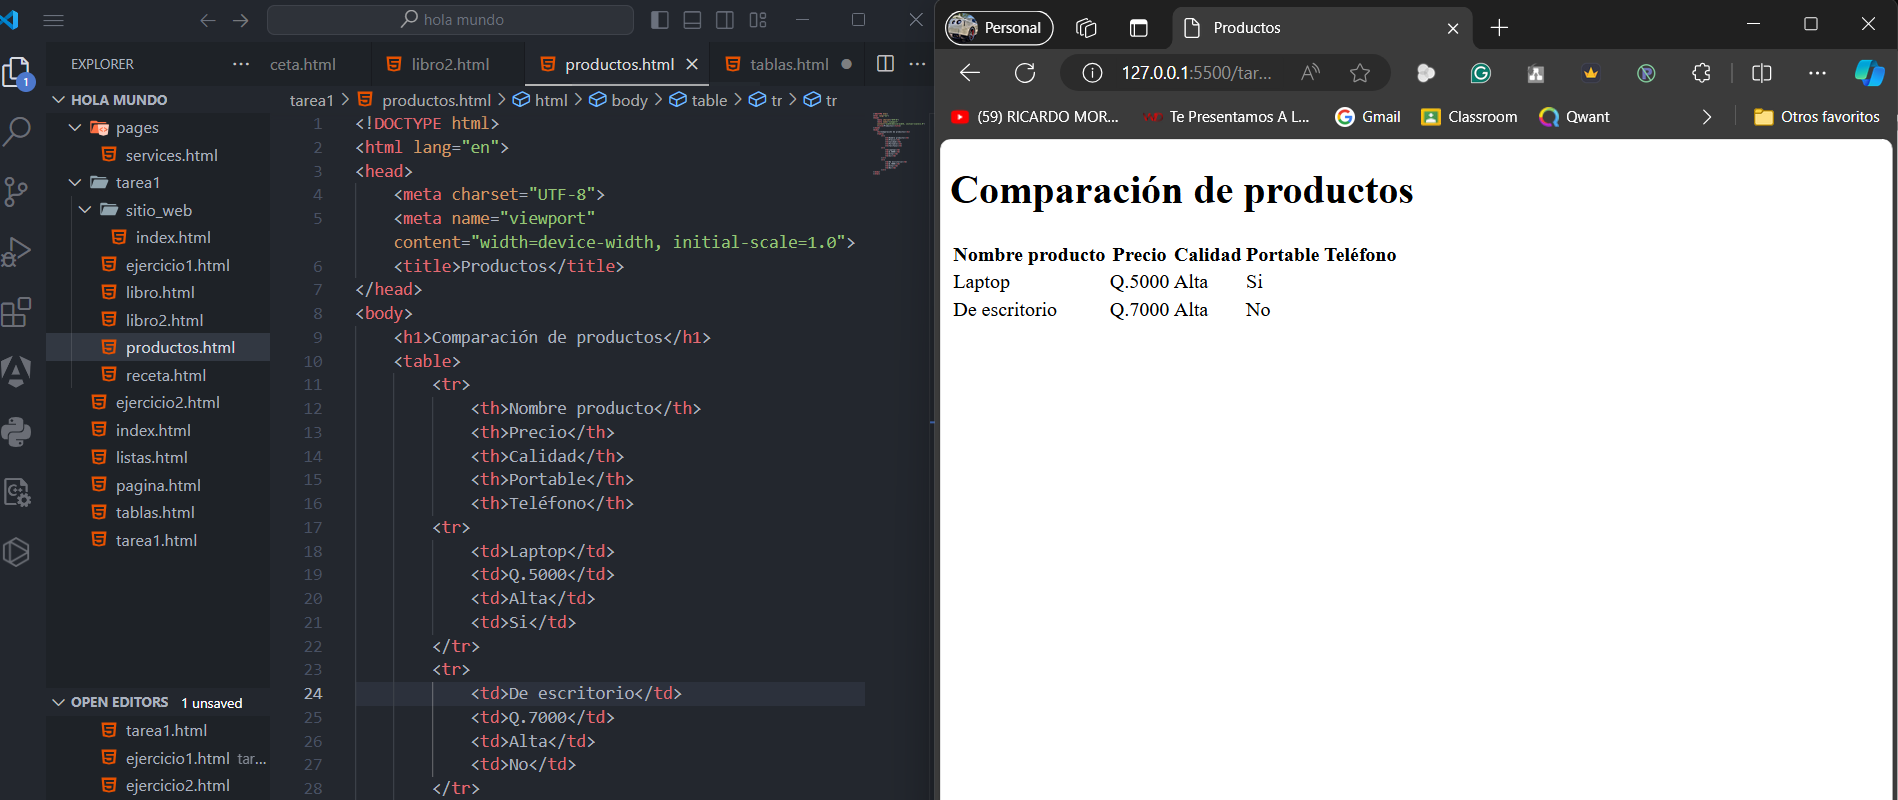
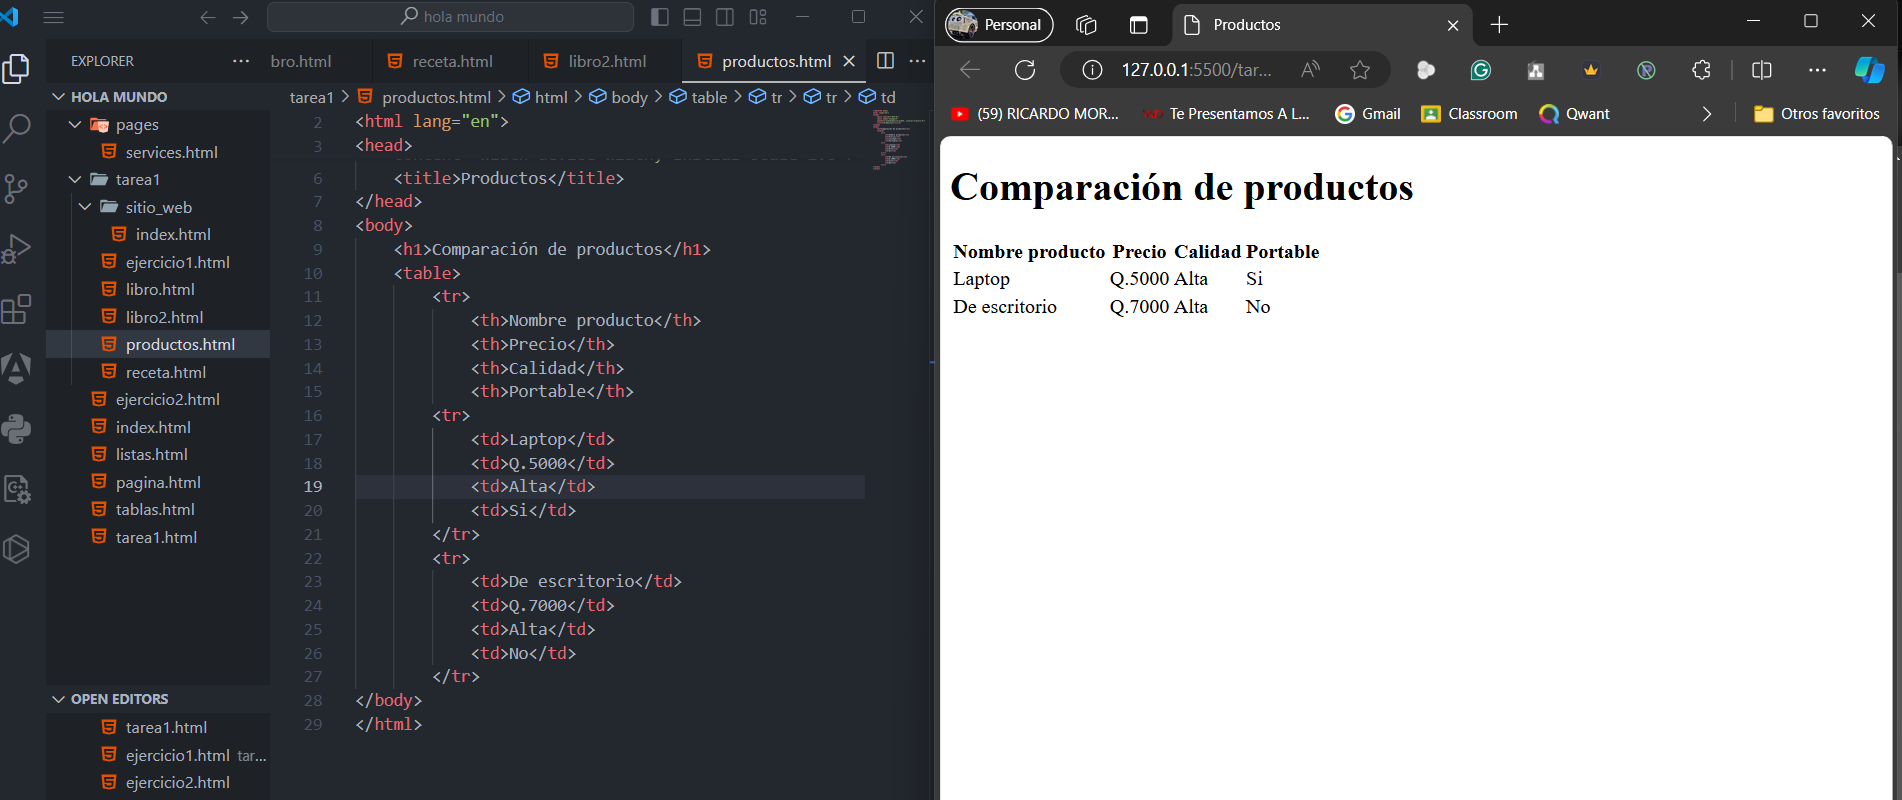
ejercicios 6

diff --git a/tarea1/hola mundo/tablas.html b/tarea1/hola mundo/tablas.html
@@ -8,7 +8,7 @@
 <body>
     <h1>Listado de clientes (id, nombre, apellido, correo, telefon)</h1>
     <table>
-        <tr>
+            <tr>
             <th>ID</th>
             <th>Nombre</th>
             <th>Apellido</th>

diff --git a/tarea1/hola mundo/tarea1/productos.html b/tarea1/hola mundo/tarea1/productos.html
@@ -13,7 +13,6 @@
             <th>Precio</th>
             <th>Calidad</th>
             <th>Portable</th>
-            <th>Teléfono</th>
         <tr>
             <td>Laptop</td>
             <td>Q.5000</td>
